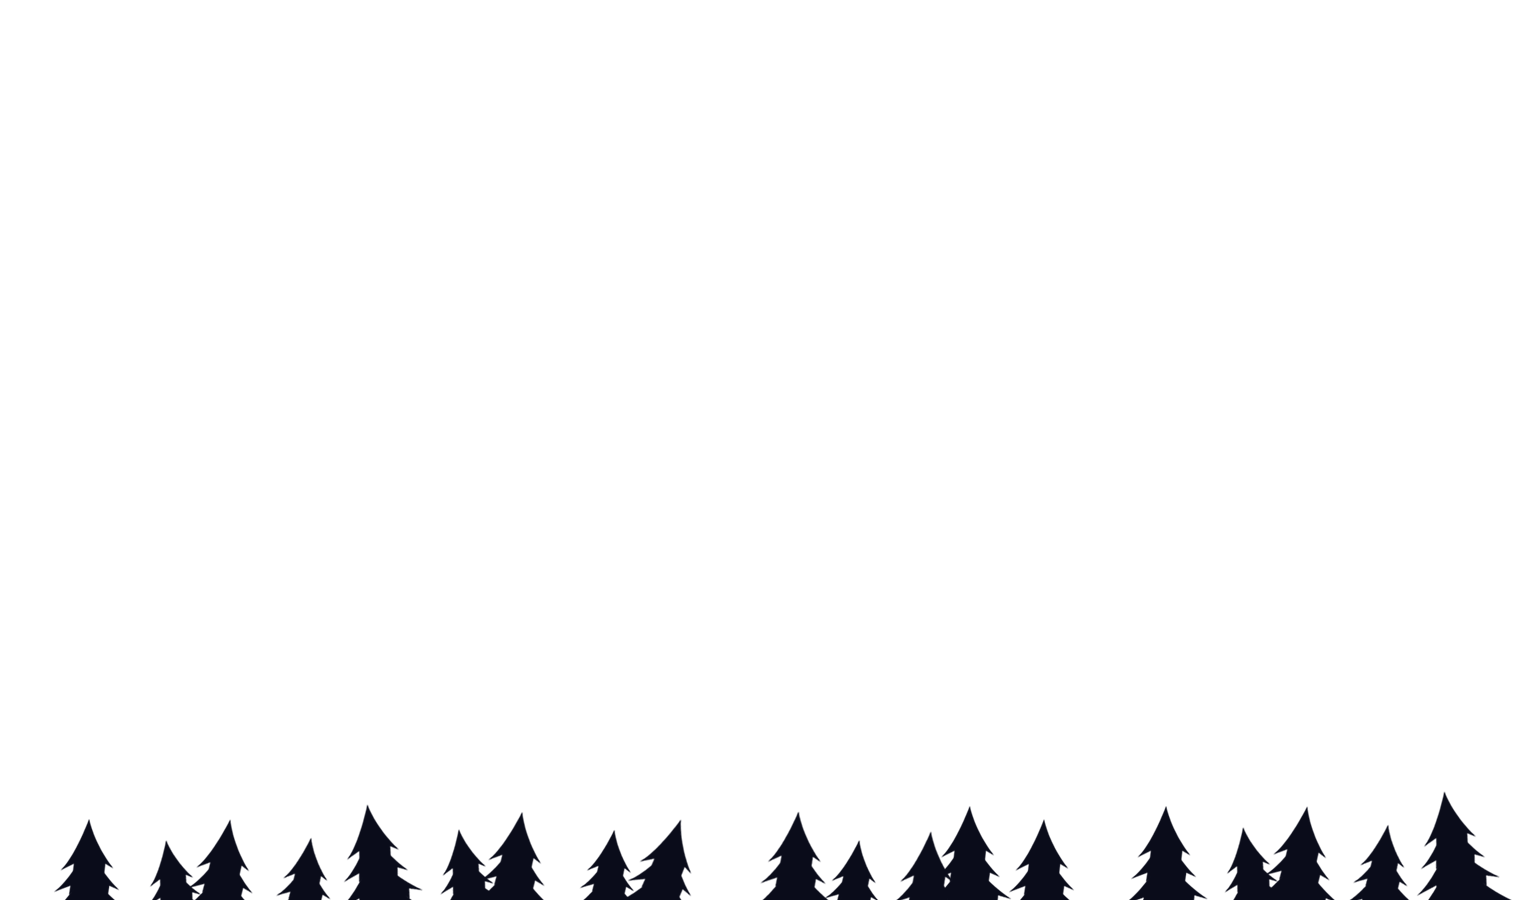
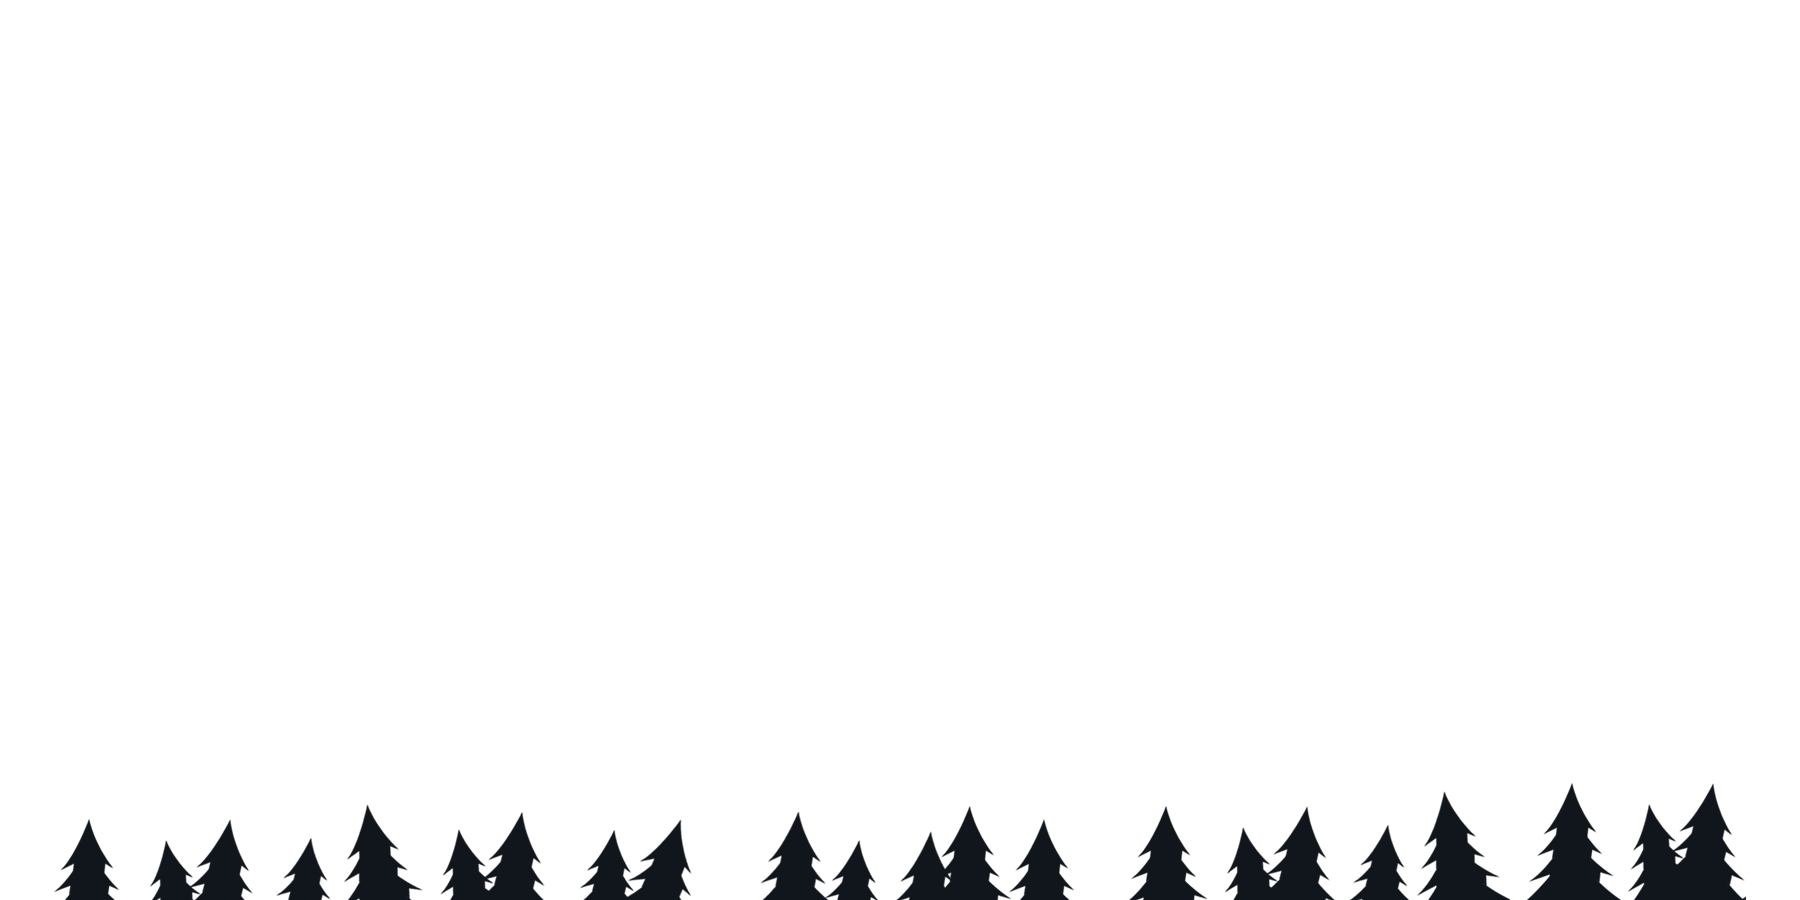
Улучшено меню игры
- Кнопки работают (тап тоже должен работать)
- Фон теперь имеет большую ширину

Changed region(s): [[0.0308, 0.8711, 1.0, 1.0]]

diff --git a/devalpha/SharedData/MenuBackground.cs b/devalpha/SharedData/MenuBackground.cs
@@ -8,14 +8,14 @@ namespace devalpha
     public class MenuBackground
     {
         // Speed
-        private const float backgroundScrollingSpeed    = 15f;
-        private const float skyMovementSpeed            = 0.2f;
+        private const float BACKGROUND_SCROLLING_SPEED    = 15f;
+        private const float SKY_MOVEMENT_SPEED            = 0.2f;
 
         // Background layers
-        private const int   bgLayersCount = 4;
+        private const int   BACKGROUND_LAYERS_COUNT = 4;
         private Texture2D[] bgTextures;
         // От дальнего слоя к ближнему
-        private float[]     bgDepths = {0.4f, 0.6f, 0.8f, 1f};
+        private float[]     bgDepths = {0.4f, 0.6f, 0.7f, 1f};
         private Vector2[]   bgPositions;
 
         // Sky
@@ -33,11 +33,11 @@ namespace devalpha
             public bool isActive;
         }
         // Максимальное количество снарядов на экране
-        private const int       projectilesCount = 5;
+        private const int       MAX_PROJECTILES_COUNT = 5;
         private Texture2D       projectileTexture;
         private Projectile[]    projectiles;
         // Задержка до создания следующего снаряда
-        private const float     projectileDelayMax = 2f;
+        private const float     MAX_PROJECTILE_DELAY = 2f;
         private float           projectileDelay;
 
         // Random generator
@@ -57,10 +57,10 @@ namespace devalpha
             skyTextures[1] = content.Load<Texture2D>(@"menu\sky2");
 
             // Background layers
-            bgTextures = new Texture2D[bgLayersCount];
-            bgPositions = new Vector2[bgLayersCount];
+            bgTextures = new Texture2D[BACKGROUND_LAYERS_COUNT];
+            bgPositions = new Vector2[BACKGROUND_LAYERS_COUNT];
 
-            for (int i = 0; i < bgLayersCount; ++i)
+            for (int i = 0; i < BACKGROUND_LAYERS_COUNT; ++i)
             {
                 string texturePath = @"menu\bg" + (i + 1).ToString();
                 bgTextures[i] = content.Load<Texture2D>(texturePath);
@@ -69,8 +69,8 @@ namespace devalpha
 
             // Projectile
             projectileTexture = content.Load<Texture2D>(@"menu\projectile");
-            projectiles = new Projectile[projectilesCount];
-            for (int i = 0; i < projectilesCount; i++)
+            projectiles = new Projectile[MAX_PROJECTILES_COUNT];
+            for (int i = 0; i < MAX_PROJECTILES_COUNT; i++)
             {
                 projectiles[i].position = Vector2.Zero;
                 projectiles[i].rotation = -(float) Math.PI / 4f;
@@ -90,7 +90,7 @@ namespace devalpha
             spriteBatch.Draw(skyTextures[0], skyPosition + new Vector2(0f, skyTextures[0].Height), null, null, Vector2.Zero, 0, null, Color.White, SpriteEffects.None, 0f); 
 
             // Projectiles            
-            for (int i = 0; i < projectilesCount; i++)
+            for (int i = 0; i < MAX_PROJECTILES_COUNT; i++)
             {
                 if (projectiles[i].isActive)
                 {
@@ -100,7 +100,7 @@ namespace devalpha
             }
 
             // Background layers
-            for (int i = 0; i < bgLayersCount; i++)
+            for (int i = 0; i < BACKGROUND_LAYERS_COUNT; i++)
             {
                 Vector2 layerPosition = bgPositions[i] - Camera.Position * Camera.GameScale;
                 spriteBatch.Draw(bgTextures[i], layerPosition,
@@ -115,16 +115,16 @@ namespace devalpha
         public void Update(float deltaTime)
         {
             // Sky
-            skyPosition -= new Vector2(0f, skyMovementSpeed);
+            skyPosition -= new Vector2(0f, SKY_MOVEMENT_SPEED);
             if (skyPosition.Y < -skyTextures[0].Height)
             {
                 skyPosition += new Vector2(0f, skyTextures[0].Height);
             }
 
             // Background layers
-            for (int i = 0; i < bgLayersCount; i++)
+            for (int i = 0; i < BACKGROUND_LAYERS_COUNT; i++)
             {
-                bgPositions[i] -= new Vector2(deltaTime * bgDepths[i] * backgroundScrollingSpeed, 0f);
+                bgPositions[i] -= new Vector2(deltaTime * bgDepths[i] * BACKGROUND_SCROLLING_SPEED, 0f);
                 if (bgPositions[i].X < -bgTextures[i].Width)
                 {
                     bgPositions[i] += new Vector2(bgTextures[i].Width, 0f);
@@ -133,7 +133,7 @@ namespace devalpha
 
             // Projectiles
             int newIndex = -1;
-            for (int i = 0; i < projectilesCount; i++)
+            for (int i = 0; i < MAX_PROJECTILES_COUNT; i++)
             {
                 if (projectiles[i].isActive)
                 {
@@ -154,7 +154,7 @@ namespace devalpha
             projectileDelay -= deltaTime;
             if (projectileDelay < 0 && newIndex >= 0)
             {
-                projectileDelay = projectileDelayMax * (float)random.NextDouble() + 0.01f;
+                projectileDelay = MAX_PROJECTILE_DELAY * (float)random.NextDouble() + 0.01f;
 
                 projectiles[newIndex].isActive = true;
                 float xOffsetRandom = ((float)random.NextDouble() - 0.2f) * bgTextures[0].Width * 0.5f;

diff --git a/devalpha/SharedData/Scenes/MenuScene.cs b/devalpha/SharedData/Scenes/MenuScene.cs
@@ -14,47 +14,33 @@ using devalpha.Scenes;
 namespace devalpha.Scenes
 {
     public class MenuScene : Scene
-    {
-        private Vector2 backgroundScale;
-        private Vector2 skyPosition;
-
+    {  
         private SpriteFont menuFont;
-        private String[] menuButtons;
+        private Button[] menuButtons;
         private float menuButtonsOffset;
         private float menuButtonsSpace;
 
         private Texture2D logoTexture;
         private Vector2 logoScale;
 
-        private Button testButton;
-        int count;
-
         private MenuBackground background;
+
+        private string[] buttonsTexts = { @"Новая игра", @"Бесконечный режим", @"Настройки", @"Об игре" };
 
         public MenuScene(GraphicsDeviceManager graphics) : base(graphics)
         {
-            // Тестовые кнопки для красоты
-            menuButtons = new String[]{@"Новая игра", @"Бесконечный режим", @"Настройки", @"Об игре"};
-            for (int i = 0; i < menuButtons.Length; i++)
-            {
-                menuButtons[i] = menuButtons[i].ToUpper();
-            }
-
-            testButton = new Button();
-            testButton.Position = new Vector2(0f, 0f);
-            testButton.Size = new Vector2(110f, 30f);
-            testButton.setClickHandler(onClick);
-            testButton.Text = "testButton: 0";
-            count = 0;
-
             background = new MenuBackground();
         }
 
-
-        public void onClick()
+        public void onClick(Button button)
         {
-            count++;
-            testButton.Text = "testButton: " + count.ToString();
+            Debug.WriteLine("Pressed: " + button.Text);
+            switch (button.Text)
+            {
+                case @"Новая игра": // "Новая игра"
+                    MainGame.sceneManager.LoadScene(new LevelScene(graphics));
+                    break;
+            }
         }
 
         public override void LoadContent(ContentManager Content)
@@ -69,36 +55,30 @@ namespace devalpha.Scenes
             // Шрифт для кнопок меню
             menuFont = Content.Load<SpriteFont>("fonts/menu_font");
 
-            menuButtonsOffset = MainGame.screenSize.Y / 2f - ((menuFont.MeasureString(menuButtons[0]).Y + menuButtonsSpace) * menuButtons.Length - menuButtonsSpace) / 2f;
+            menuButtonsOffset = MainGame.screenSize.Y / 2f - ((menuFont.MeasureString(buttonsTexts[0]).Y + menuButtonsSpace) * buttonsTexts.Length - menuButtonsSpace) / 2f;
             menuButtonsSpace = 20f * Camera.GameScale;
-
-            testButton.Font = menuFont;
+            menuButtons = new Button[buttonsTexts.Length];
+            for (int i = 0; i < buttonsTexts.Length; i++)
+            {
+                menuButtons[i] = new Button(buttonsTexts[i], menuFont);
+                var buttonSize = menuFont.MeasureString(buttonsTexts[i]);
+                menuButtons[i].Position = new Vector2(MainGame.screenSize.X / 2f - buttonSize.X / 2f, menuButtonsOffset + (buttonSize.Y + menuButtonsSpace) * i);
+                menuButtons[i].Size = buttonSize;
+                menuButtons[i].setClickHandler(onClick);
+                menuButtons[i].Text = buttonsTexts[i];
+            }
         }
 
         public override void Update(GameTime gameTime)
         {
             float deltaTime = (float)gameTime.ElapsedGameTime.Milliseconds / 1000f;
             background.Update(deltaTime);
-            //testButton.Update(gameTime);
 
-            // Переход на следующий экран по клику
-			#if !__MOBILE__
-            var mouseState = Mouse.GetState();
-            if (mouseState.LeftButton == ButtonState.Pressed /*|| gameTime.TotalGameTime.Seconds >= 3*/)
+            // Кнопки меню
+            for (int i = 0; i < menuButtons.Length; i++)
             {
-                MainGame.sceneManager.LoadScene(new LevelScene(graphics));
-            }    
-			#endif
-			#if __MOBILE__
-			var gesture = default(GestureSample);
-
-			while (TouchPanel.IsGestureAvailable)
-				gesture = TouchPanel.ReadGesture();
-			if (gesture.GestureType == GestureType.Tap)
-			{
-				MainGame.sceneManager.LoadScene(new LevelScene(graphics));
-			}
-			#endif
+                menuButtons[i].Update(gameTime);
+            }
         }
 
         public override void Draw(SpriteBatch spriteBatch)
@@ -112,11 +92,8 @@ namespace devalpha.Scenes
             // Кнопки меню
             for (int i = 0; i < menuButtons.Length; i++)
             {
-                var buttonSize = menuFont.MeasureString(menuButtons[i]);
-                var buttonPos = new Vector2(MainGame.screenSize.X / 2f - buttonSize.X / 2f, menuButtonsOffset + (buttonSize.Y + menuButtonsSpace) * i);
-				spriteBatch.DrawString(menuFont, menuButtons[i], buttonPos, Color.White, 0f, Vector2.Zero, 1, SpriteEffects.None, 0f);
+                menuButtons[i].Draw(spriteBatch);
             }
-            //testButton.Draw(spriteBatch);
         }
     }
 }

diff --git a/devalpha/SharedData/UI/Button.cs b/devalpha/SharedData/UI/Button.cs
@@ -6,6 +6,7 @@ using Microsoft.Xna.Framework.Graphics;
 
 using devalpha.Scenes;
 using Microsoft.Xna.Framework.Input;
+using Microsoft.Xna.Framework.Input.Touch;
 using devalpha;
 using System.Diagnostics;
 
@@ -14,7 +15,7 @@ namespace devalpha.UI
 {
     public class Button : ISprite
     {
-        protected Action    clickHandler;
+        protected Action<Button>    clickHandler;
         protected Rectangle boundsRectangle;
         protected float     rotation;
         protected Texture2D backgroundTexture;
@@ -28,12 +29,22 @@ namespace devalpha.UI
         public String     Text;
         public SpriteFont Font;
 
-        public Button()
+        public Color NormalColor;
+        public Color HoverColor;
+        public Color ClickColor;
+
+        public Button(String text, SpriteFont font)
         {
             state = "normal";
+            Text = text;
+            Font = font;
+
+            NormalColor = new Color(240, 240, 240);
+            HoverColor = new Color(255, 240, 0);
+            ClickColor = new Color(255, 255, 255);
         }
 
-        public void setClickHandler(Action handlerFunction)
+        public void setClickHandler(Action<Button> handlerFunction)
         {
             clickHandler = handlerFunction;
         }
@@ -44,33 +55,53 @@ namespace devalpha.UI
         }
 
         public void Draw(SpriteBatch spriteBatch)
-        {
-            var color = Color.White;
+        {           
+            var color = NormalColor;
             switch (state)
             {
                 case "hover":
-                    color = new Color(255, 0, 0);
+                    color = HoverColor;
                     break;
-                   
+
                 case "click":
-                    color = new Color(0, 255, 0);
+                    color = ClickColor;
                     break;
             }
             spriteBatch.DrawString(Font, Text, Position, color, Rotation, Vector2.Zero, 1, SpriteEffects.None, 0f);
         }
 
+
         public void Update(GameTime gameTime)
         {
+            // Клик или там
+            Point cursorPosition = Point.Zero;
+            bool isDown = false;
+
+            #if !__MOBILE__
             var mouseState = Mouse.GetState();
-            // TODO: Проверка клика, а не зажатия кнопки
-            if (boundsRectangle.Contains(mouseState.Position))
+            cursorPosition = new Point((int)(mouseState.Position.X * Camera.GameScale), (int) (mouseState.Position.Y * Camera.GameScale));
+            isDown = mouseState.LeftButton == ButtonState.Pressed; 
+            #endif
+
+            #if __MOBILE__
+            var gesture = default(GestureSample);
+            while (TouchPanel.IsGestureAvailable)
+            gesture = TouchPanel.ReadGesture();
+            if (gesture.GestureType == GestureType.Tap)
             {
-                if (mouseState.LeftButton == ButtonState.Pressed && clickHandler != null && state != "click")
+                cursorPosition = new Point((int)(gesture.Position.X * Camera.GameScale), (int) (gesture.Position.Y * Camera.GameScale));
+                isDown = true;
+            }
+            #endif
+
+            if (boundsRectangle.Contains(cursorPosition))
+            {
+                if (isDown && clickHandler != null && state != "click")
                 {
-                    clickHandler();
+                    clickHandler(this);
                     state = "click";
                 }
-                else if (mouseState.LeftButton != ButtonState.Pressed)
+                else if (!isDown)
                 {
                     state = "hover";
                 }
@@ -80,6 +111,5 @@ namespace devalpha.UI
                 state = "normal";
             }
         }
-            
     }
 }

diff --git a/devalpha/SharedData/MainGame.cs b/devalpha/SharedData/MainGame.cs
@@ -35,6 +35,8 @@ namespace devalpha
             graphics.IsFullScreen = true;	
 			#if !__MOBILE__
 			graphics.IsFullScreen = false;
+            graphics.PreferredBackBufferWidth = 1300;
+            graphics.PreferredBackBufferHeight = 650;
             IsMouseVisible = true;
 			#endif
 
